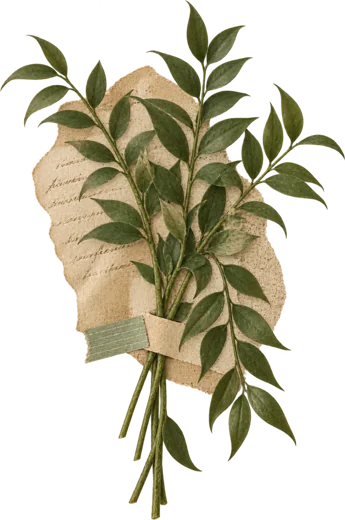
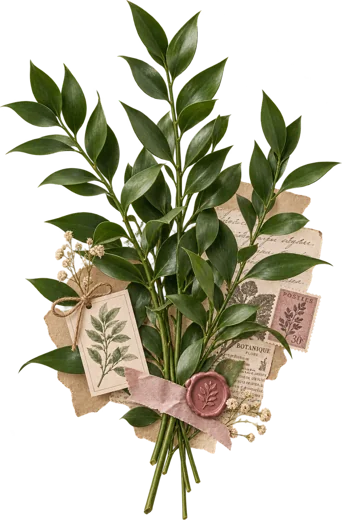
꽃 그림: 루스커스 (수동 제작본)
Claude-Session: https://claude.ai/code/session_01WCPfkfgKmSLJFuJHW1Sc4d

diff --git a/preview/index.html b/preview/index.html
@@ -446,7 +446,7 @@ const favIndexKeys=()=>[...new Set([...FAV].map(favKey))];
 const SEASON_SITE_URL='';
 // 등락: 화살표 + 색 + 숫자 (색만으로 뜻을 전하지 않음)
 const dlt=x=>x==null||!isFinite(x)?'<span class="d flat">—</span>':`<span class="d ${sg(x)}">${x>0?'▲':x<0?'▼':'–'} ${Math.abs(x*100).toFixed(1)}%</span>`;
-const IMG_V='202610282104'; // 그림을 바꾸면 이 값을 바꿔서 휴대폰에 남은 옛 그림 대신 새 그림을 받게 합니다
+const IMG_V='202610290240r'; // 그림을 바꾸면 이 값을 바꿔서 휴대폰에 남은 옛 그림 대신 새 그림을 받게 합니다
 const STK=(location.pathname.includes('/preview/')?'../':'')+'img/';
 // 꽃 그림: img/flowers/<원자료 품목명>.webp (파일 이름 = 원자료 품목명)
 const FLOWER_IMG=new Set(["과꽃", "안시리움", "클레마티스", "맨드라미", "호접란", "공작초", "국화_대국", "금꿩의다리", "고사리", "장미", "국화", "카네이션", "안개", "거베라", "리시안사스", "백합", "수국", "알스트메리아", "칼라", "스타티스", "유칼립투스", "메리골드", "스톡크", "홍가시", "튜립", "라넌큘러스", "프리지아", "델피니움", "코스모스", "작약", "해바라기", "다알리아", "스위트피", "금어초", "아이리스", "글라디올러스", "왁스플라워", "솔리다고", "하이페리콤", "루스커스", "몬스테라", "쿠루쿠마", "석죽", "백일홍", "옥시페탈륨", "천일홍", "베로니카", "스카비오사", "용담", "브바르디아", "후록스", "부들레야", "아미초", "아스그레피아스", "층꽃", "등골나무", "멜라루카", "비부리움", "심포리카르포스", "엽란", "쥐똥나무", "캐모마일", "파니쿰", "편백", "도라지꽃", "루드베키아", "사루비아", "아스파라거스", "헬리옵시스", "꽃고추", "버들나무", "개미취", "연밥", "조팝", "핑크뮬리", "극락조화", "글로리오사", "냉이초", "산더소니아", "설유화", "소철", "솔리다스터", "아네모네", "영춘화", "오니소갈룸", "폴리안테스", "셀륨", "시레네", "여우얼굴", "풍선초", "피토스포륨", "광나무(여정목)", "꽈리"]);
